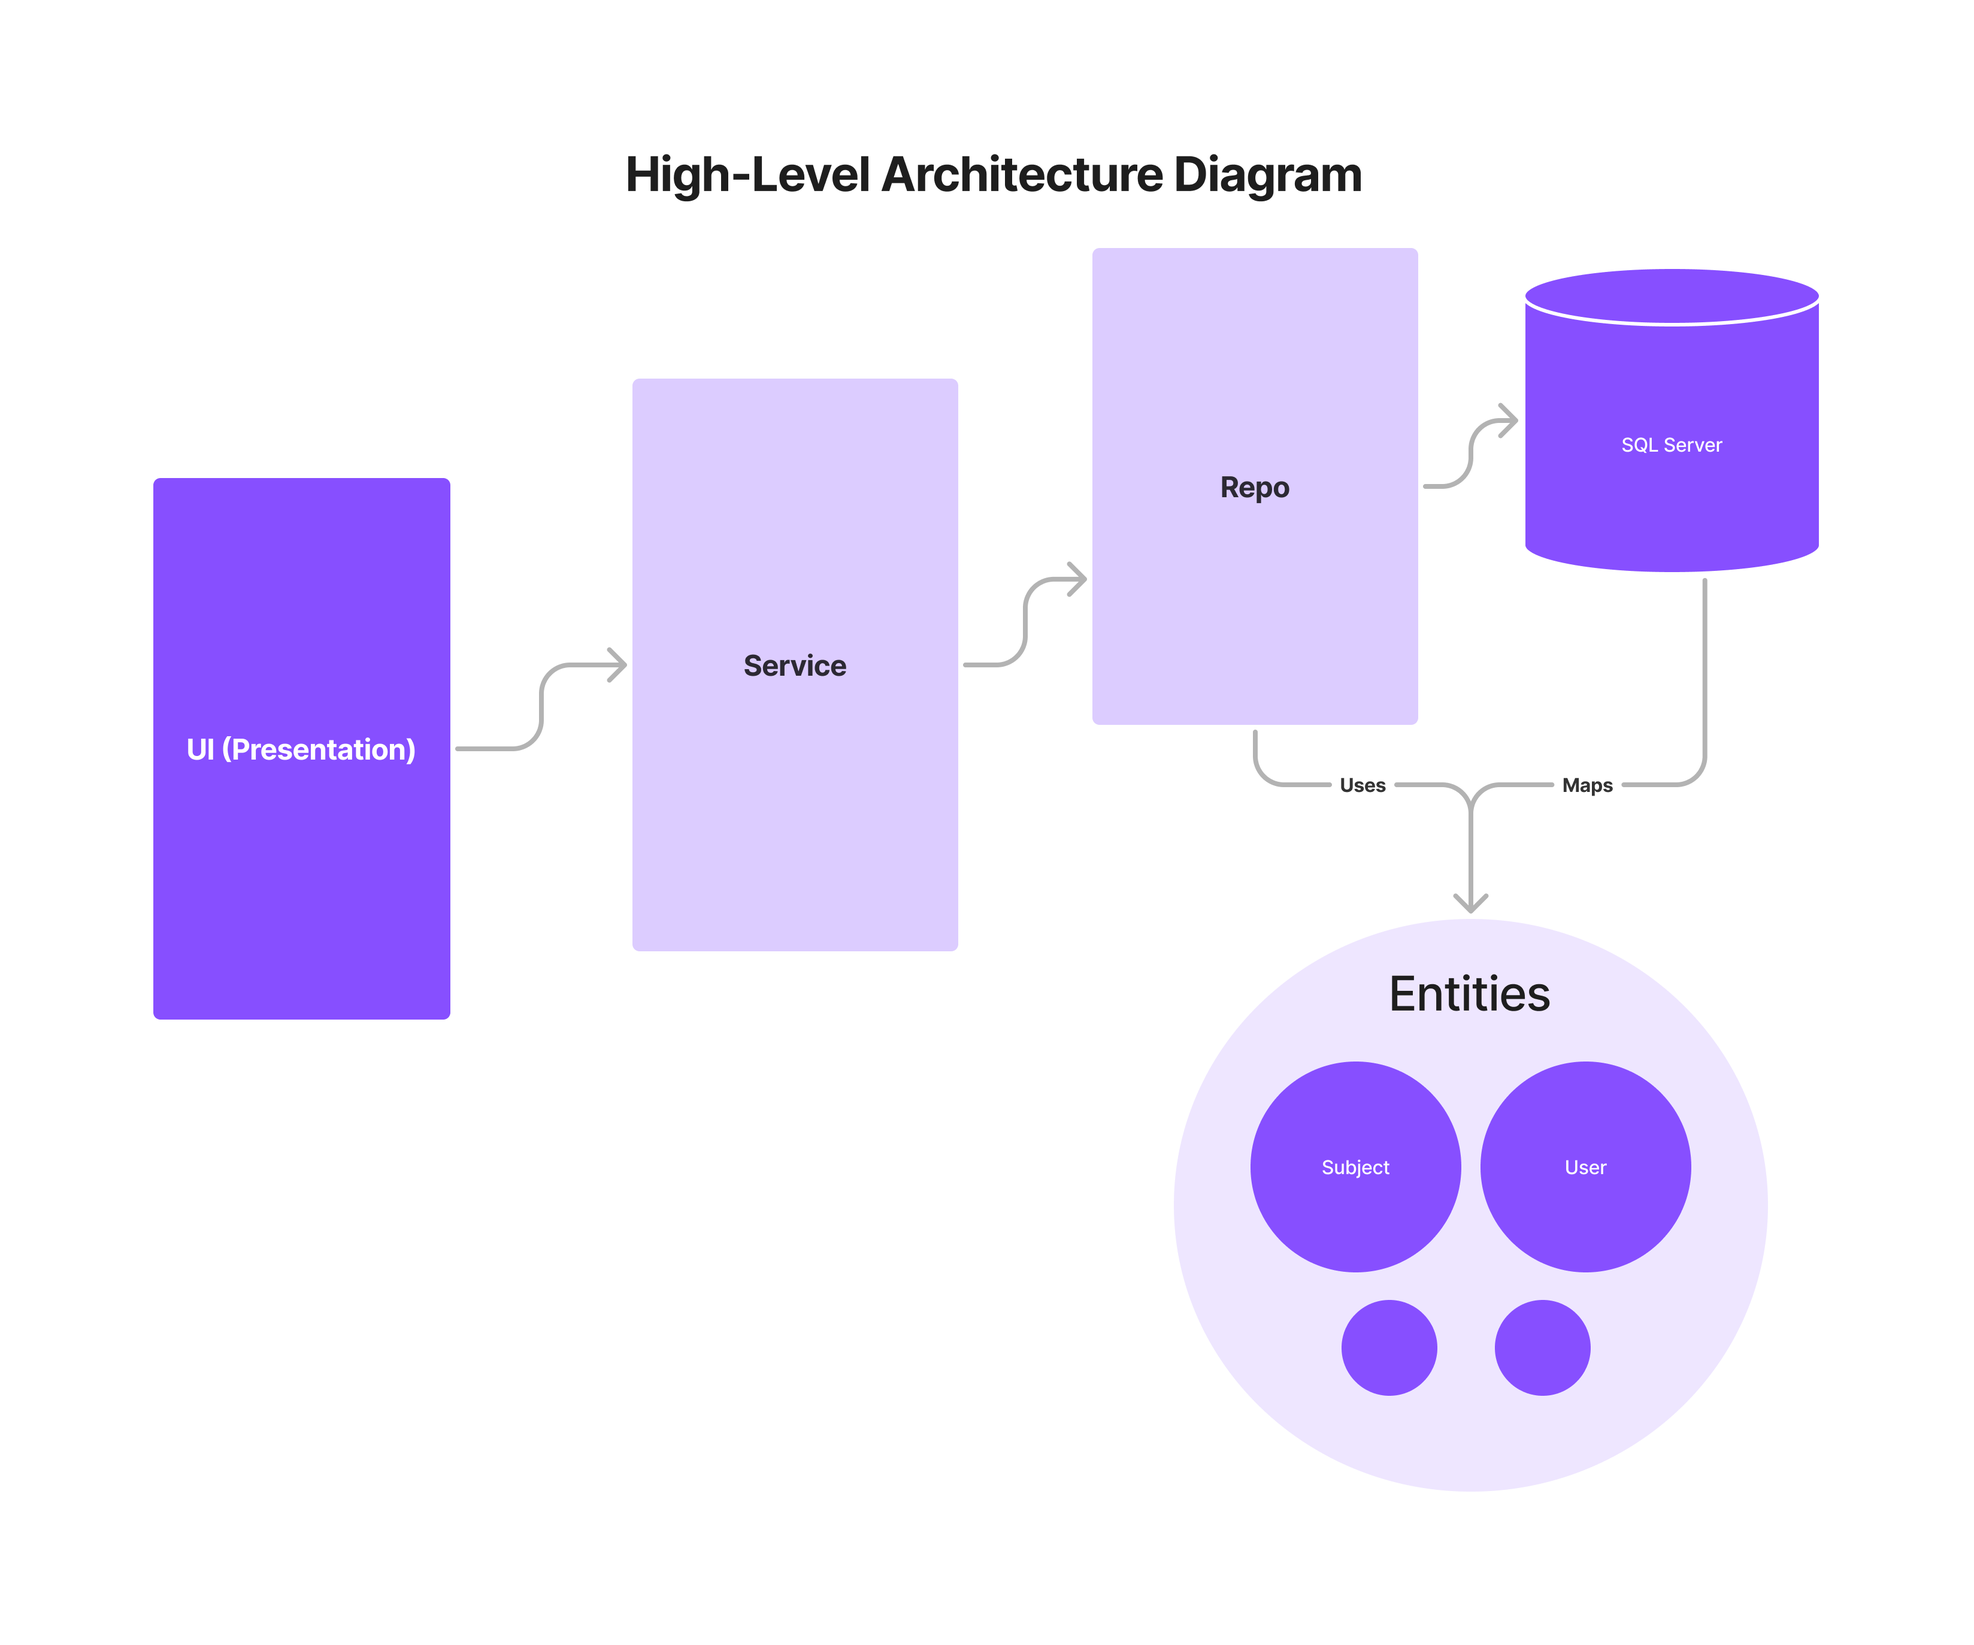
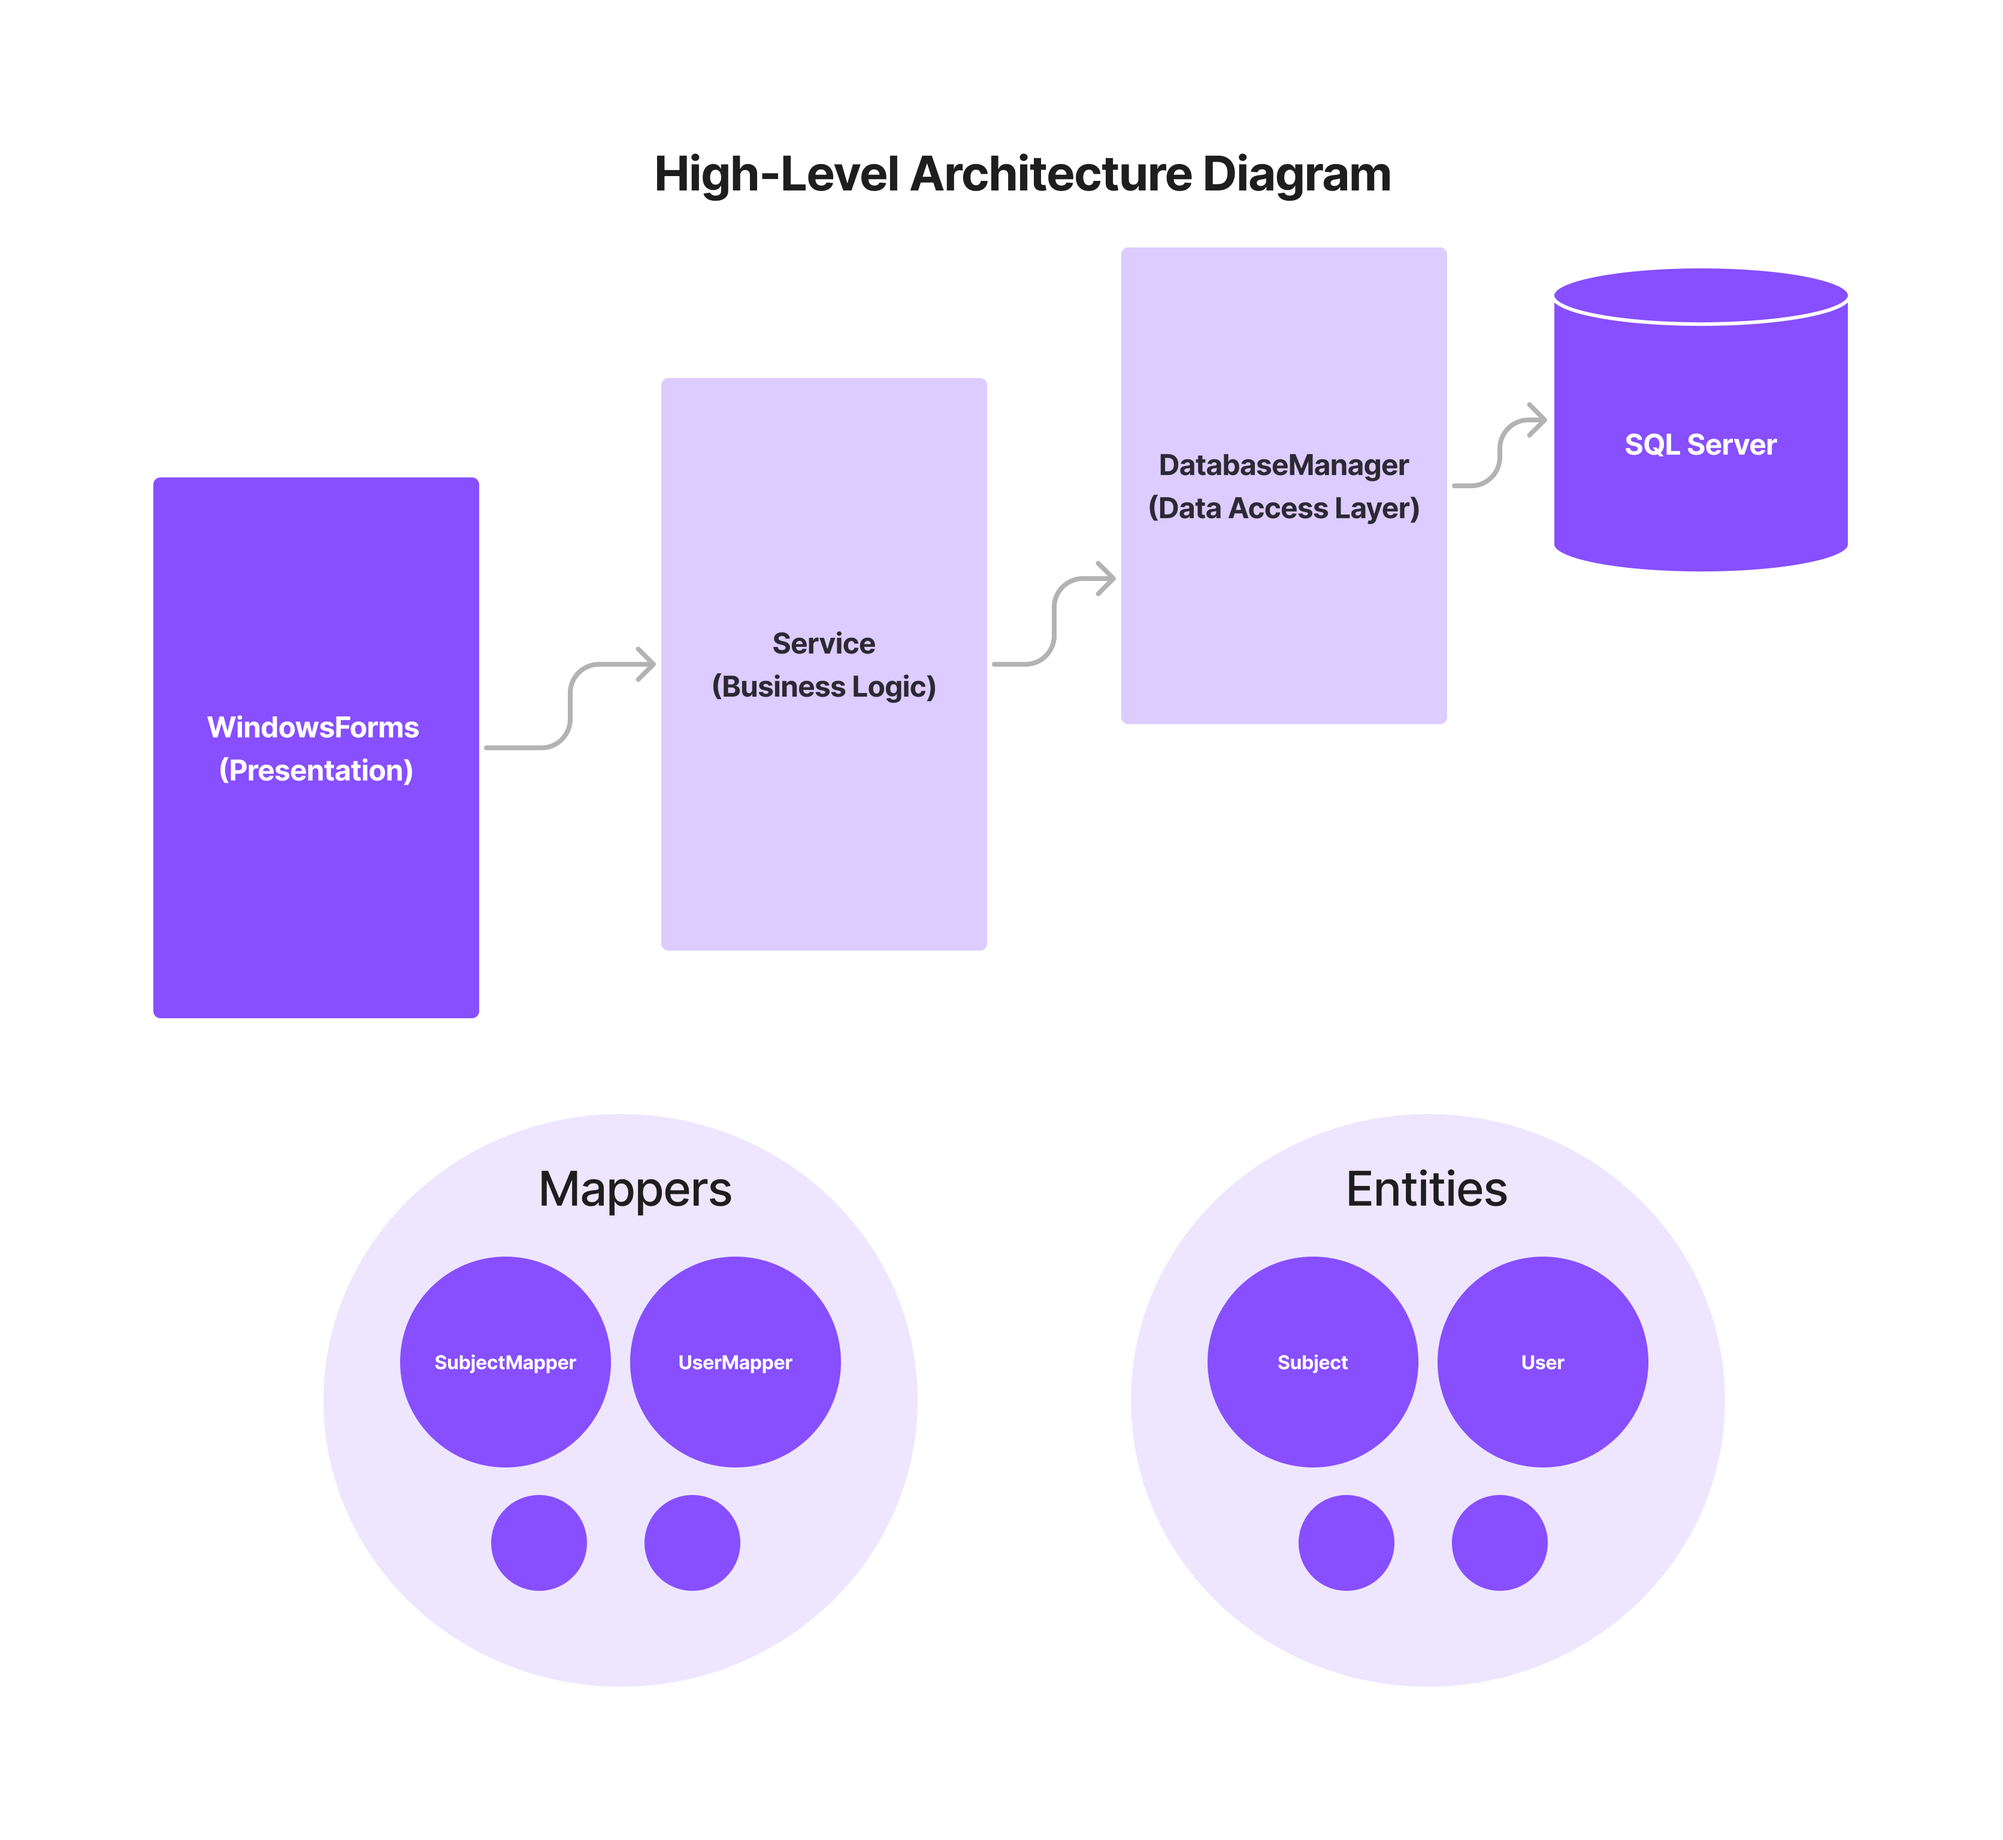
docs: update high level architecture section in README

diff --git a/README.md b/README.md
@@ -35,18 +35,23 @@ _For more details, Please review [System Requirements Specification Document](./
 
 ## High-Level Architecture
 
-Our project follows a **multi-tier architecture** for better organization:
+Our project follows a simplified **multi-tier architecture** to ensure better organization and maintainability:
 
-- **Entities (Data Model)** – Classes that map to database tables.
-- **Repository Layer (Data Access Layer)** – Handles database operations using **Entities**.
-- **Service Layer (Business Logic)** – Contains the core logic of the system.
-- **Presentation Layer (UI)** – The **Windows Forms** application that interacts with users.
+- **Entities (Data Model)** – Classes that map to database tables and represent the data structure.
+- **Mappers**: Converts database rows (`DataRow` or `DataTable`) into entity objects and vice versa.
+- **DatabaseManager**: Handles all database interactions, such as executing queries and commands.
+- **Service Layer (Business Logic)** – Contains the core logic of the system. This layer interacts with the database using the `DatabaseManager` and mappers. SQL statements are written directly within service methods for simplicity.
+- **Presentation Layer (UI)** – The **Windows Forms** application that interacts with users and provides an intuitive interface for admins, teachers, and students.
 
 ![High-Level Architecture](./attachments/imgs/iti-examination-system-architecture.png)
 
+This architecture eliminates the need for a separate repository layer, reducing complexity while maintaining a clear separation of concerns between the UI, business logic, and database operations.
+
+## File Structure
+
 We use a **single .NET solution** with multiple projects, ensuring **a clear separation of concerns** and making development **structured and intuitive**. Below is the updated project structure:
 
-### Project Structure
+### Solution Structure
 
 - **Exami.Presentation** – A Windows Forms project that handles the user interface.
 
